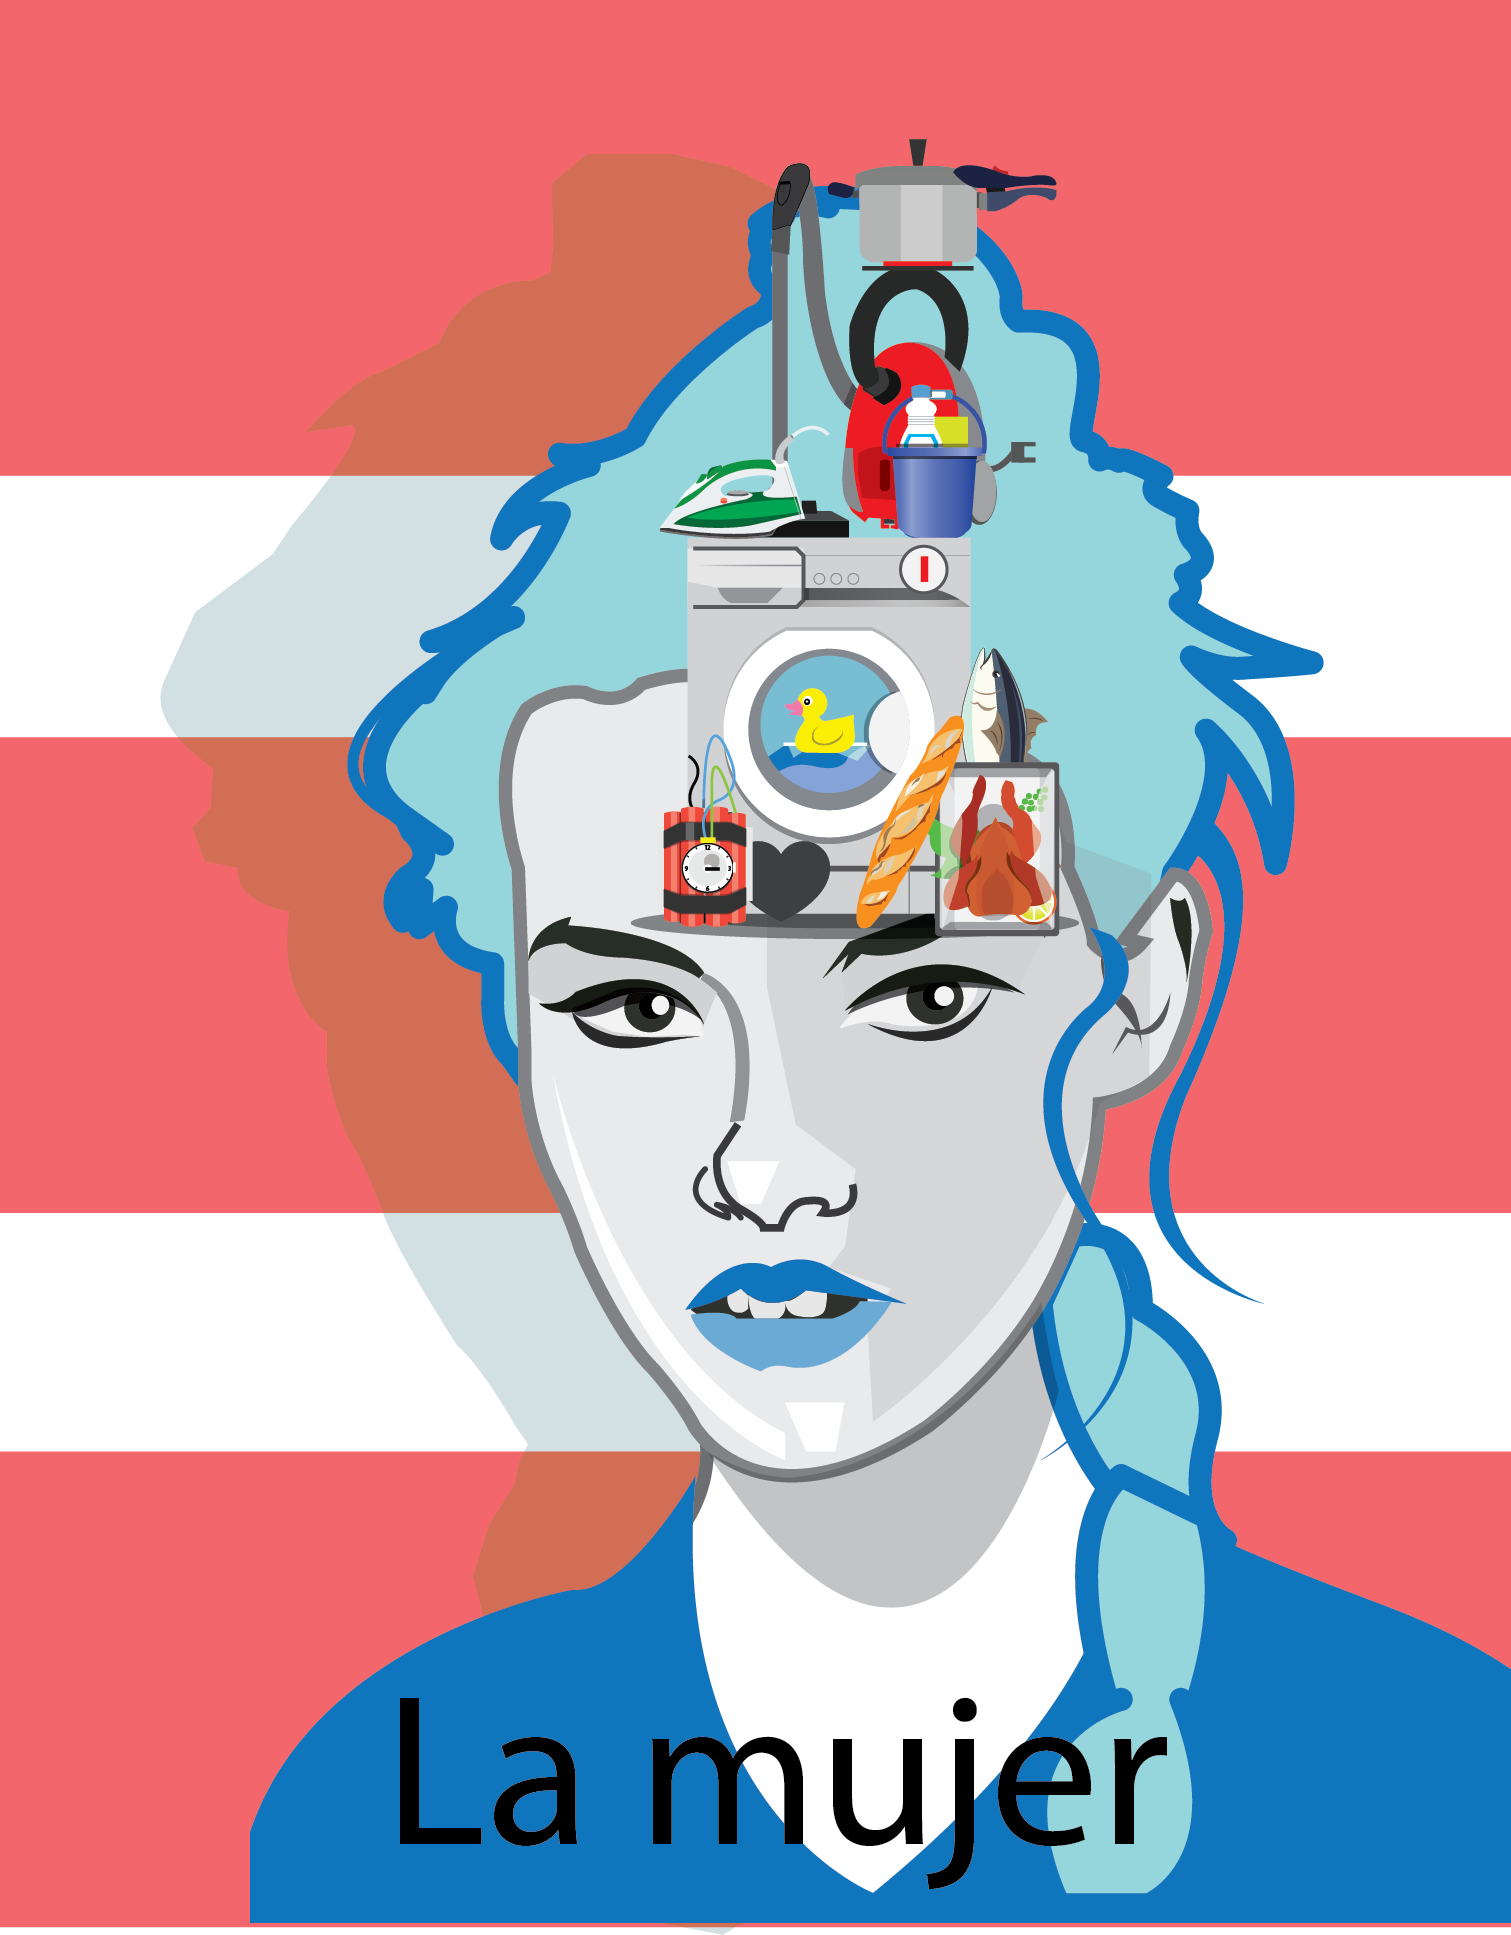
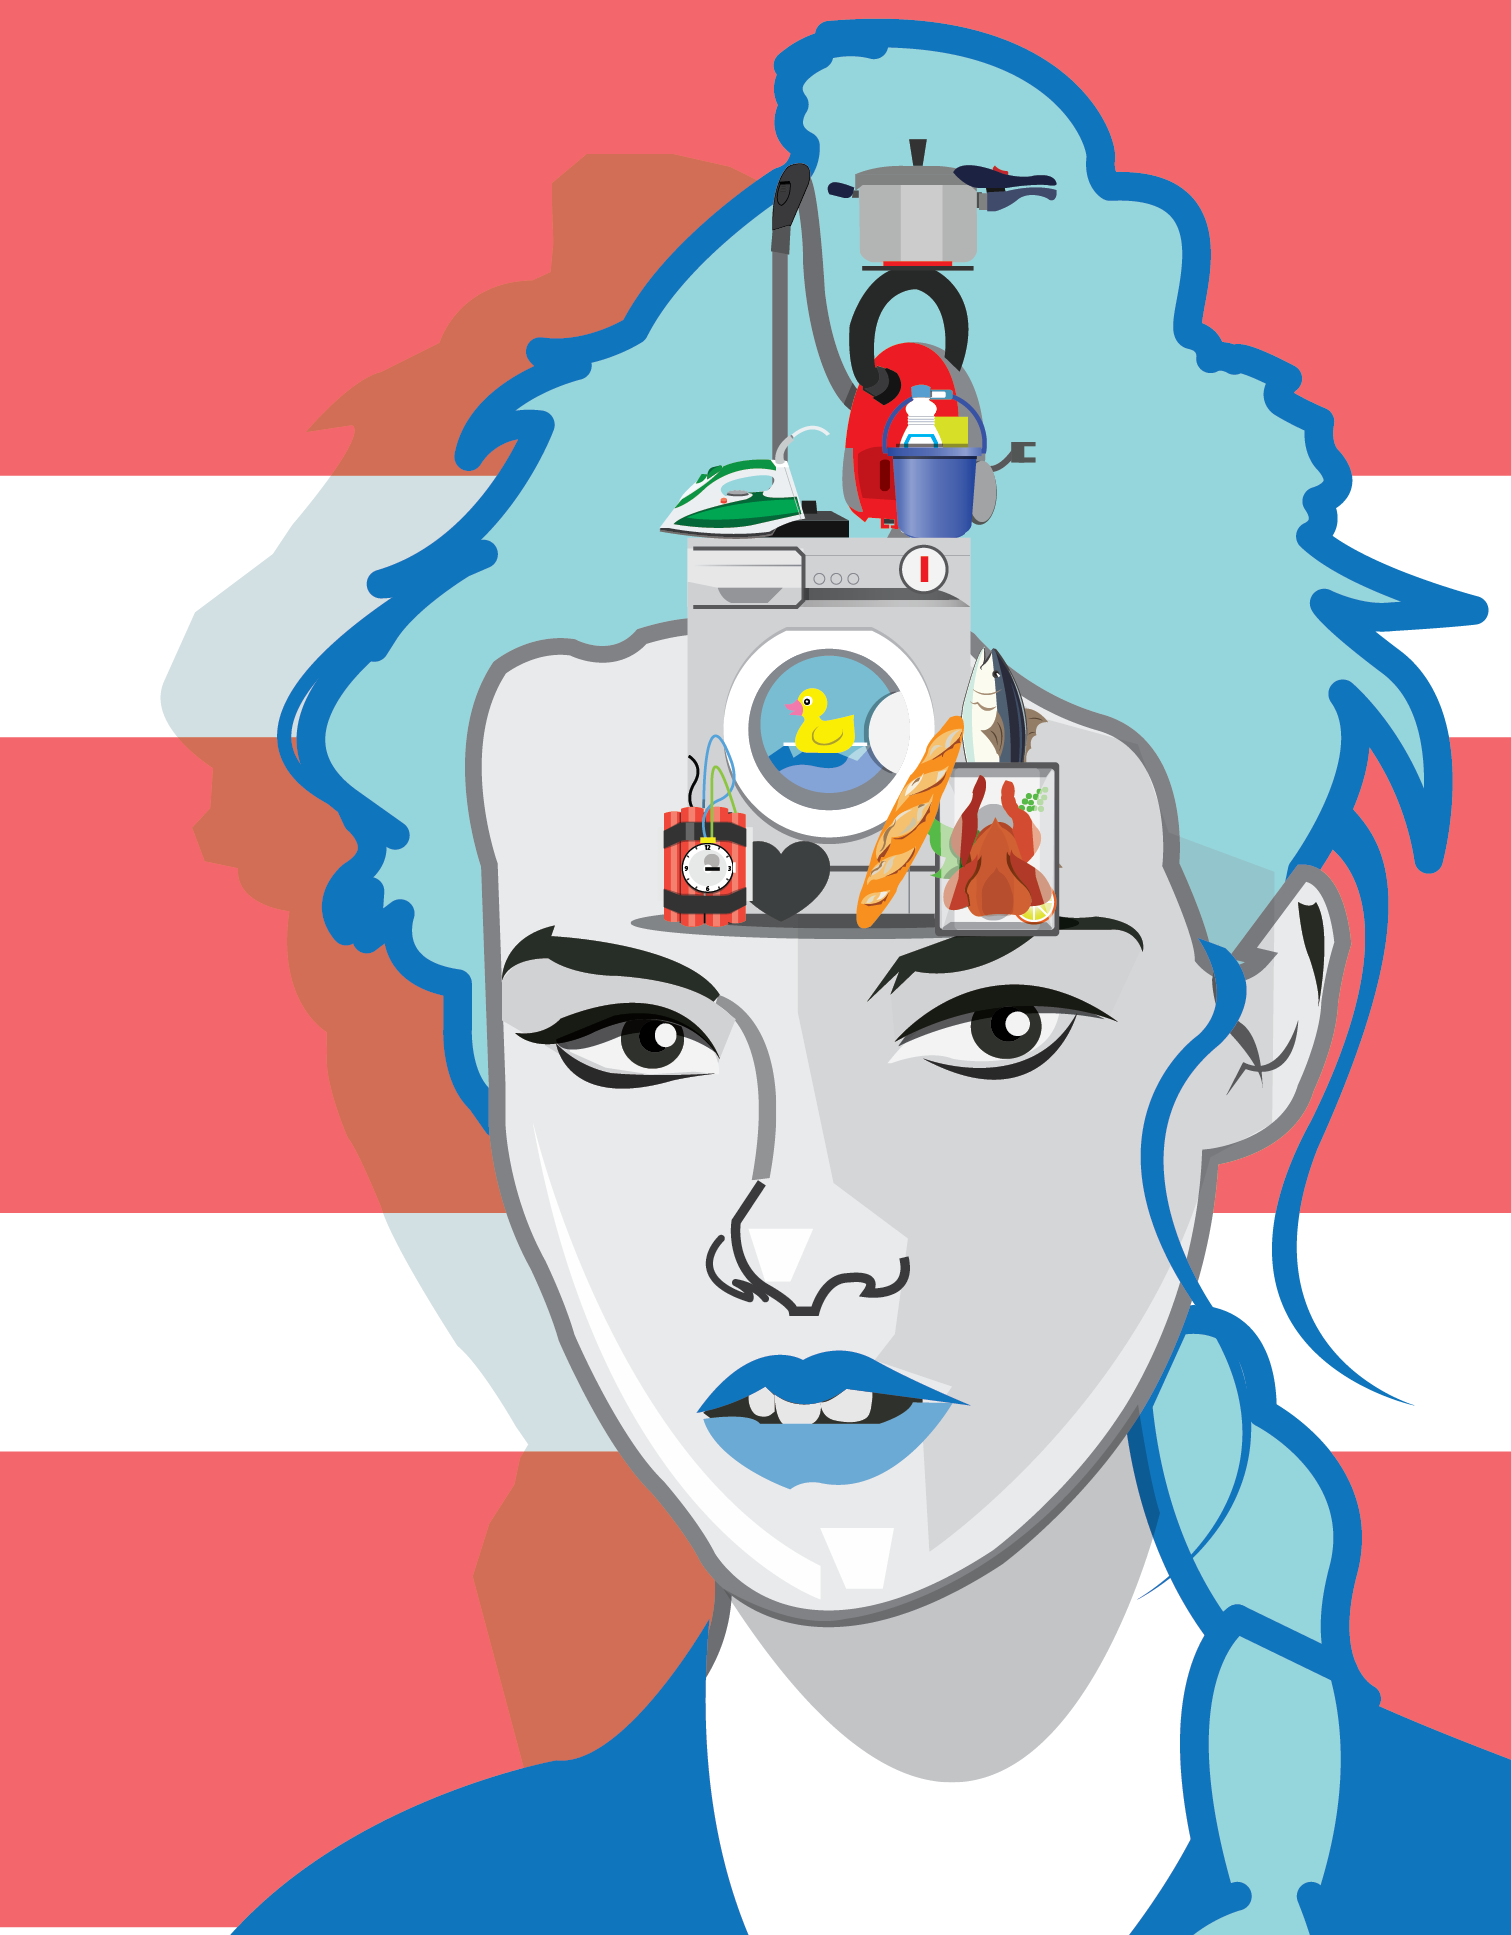
mujer-01.png mejorado. Se ve mejor

diff --git a/index.html b/index.html
@@ -111,7 +111,7 @@
 		<section class="infografia-1">
 			<h4>El hombre:</h4>
 			<figure id="mujer"><img src="img/hombre-01.png" alt="" /></figure>
-			<p>
+			<p class="padding_top_1">
 				Como puedes ver, en la actualidad las diferencias son ya muy sutiles...
 			</p>
 		</section>

diff --git a/css/estilos.css b/css/estilos.css
@@ -428,6 +428,11 @@ ul li ul {
 .infografia-1 h4 {
   padding: 0 0 0 3%;
 }
+
+.infografia-1 p {
+  font-size: 20px;
+  padding: 0 0 0 3%;
+}
 .kale-dor-kayiko_img img {
   padding-left: 2rem;
   width: 20%;
